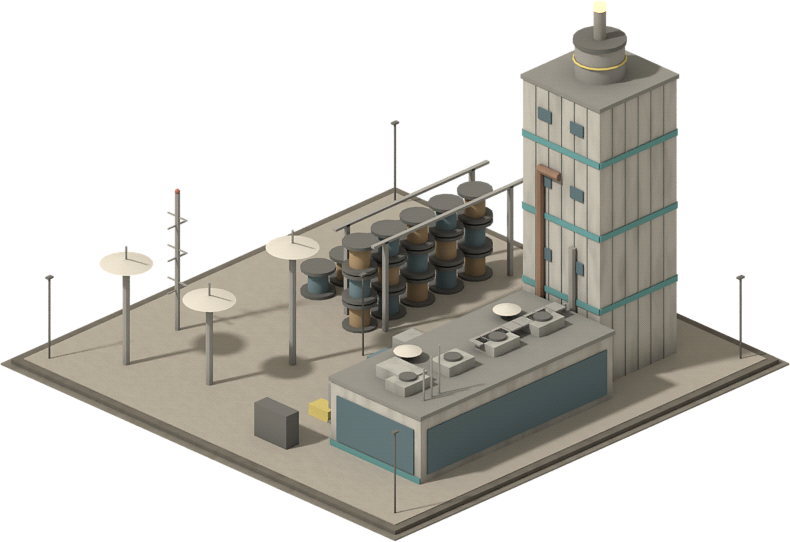
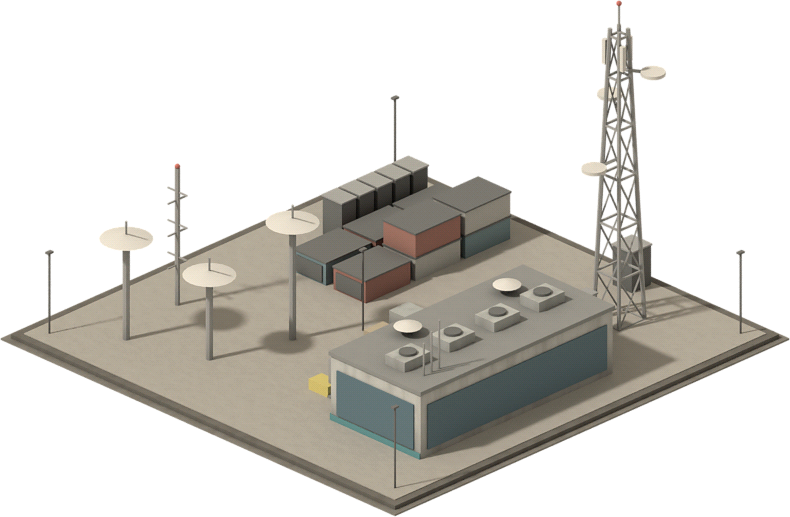
電線工場・光ファイバー工場を専用の新工場に、通信機器工場を通信塔に作り直し、技術ツリー図を更新
Claude-Session: https://claude.ai/code/session_018rzwRr8JkDqqPcQLfX2TTK

diff --git a/data/recipes.js b/data/recipes.js
@@ -51,19 +51,19 @@ GAME_DATA.recipes = {
   colony: { name: '宇宙コロニー', inputs: { paper: 1500, buildmat: 4000, car: 300, detergent: 250, clothing: 1500, pharma: 150, pc: 1000, ev: 200, weapon: 50, rocket: 2, alloy: 1000 }, outputs: { colony: 1 }, opexPerUnit: 5727935.3, energyShare: 0.05 },
   offshore: { name: '洋上プラットフォーム', inputs: { steel: 5000, alloy: 1500, cement: 20000, glass: 1000, pc: 500 }, outputs: { offshore: 1 }, opexPerUnit: 1833756.0, energyShare: 0.06 },
   aiDefense: { name: 'AI防衛システム', inputs: { semiconductor: 1500, weapon: 100, rocket: 1, pc: 500, powerEquip: 250, comsat: 6 }, outputs: { aiDefense: 1 }, opexPerUnit: 9126201.9, energyShare: 0.07 },
-  cable: { name: '電線・ケーブル', inputs: { copper: 0.8, aluminum: 0.3 }, outputs: { cable: 1 }, opexPerUnit: 208.8, energyShare: 0.3, speed: 0.44 },
+  cable: { name: '電線・ケーブル', inputs: { copper: 0.8, aluminum: 0.3 }, outputs: { cable: 1 }, opexPerUnit: 150.8, energyShare: 0.3 },
   motor: { name: 'モーター・変圧器', inputs: { cable: 1.0, steel: 2.0, copper: 0.3 }, outputs: { motor: 1 }, opexPerUnit: 594.7, energyShare: 0.08 },
   powerEquip: { name: '発電・送電設備', inputs: { motor: 1.0, cable: 0.5, steel: 4.0, alloy: 0.4, glass: 0.5, silicon: 0.3 }, outputs: { powerEquip: 1 }, opexPerUnit: 2642.0, energyShare: 0.08 },
-  opticFiber: { name: '光学ガラス・光ファイバー', inputs: { glass: 1.0, silica: 0.25 }, outputs: { opticFiber: 1 }, opexPerUnit: 226.0, energyShare: 0.3, speed: 0.36 },
-  commGear: { name: '通信機器', inputs: { opticFiber: 1.0, copper: 0.5, plastic: 0.4, semiconductor: 0.1 }, outputs: { commGear: 1 }, opexPerUnit: 819.5, energyShare: 0.08 },
+  opticFiber: { name: '光ファイバー', inputs: { glass: 1.0, silica: 0.25 }, outputs: { opticFiber: 1 }, opexPerUnit: 52.1, energyShare: 0.3 },
+  commGear: { name: '通信機器', inputs: { opticFiber: 1.0, copper: 0.5, plastic: 0.4, semiconductor: 0.1 }, outputs: { commGear: 1 }, opexPerUnit: 1051.7, energyShare: 0.08 },
   comsat: { name: '通信衛星・通信網', inputs: { commGear: 40, semiconductor: 14, alloy: 10 }, outputs: { comsat: 1 }, opexPerUnit: 33876.6, energyShare: 0.06 }
 };
 GAME_DATA.plants = {
   chemPlant: { recipes: ['plastic', 'rubber', 'surfactant', 'fiber'], legacyRecipes: ['pharmaMat', 'explosive'], throughput: 10 },
   steelMill: { recipes: ['steel', 'alloy'], throughput: 25 },
   aluminumSmelter: { recipes: ['aluminum'], throughput: 7 },
-  copperSmelter: { recipes: ['copper', 'lithium', 'cable'], throughput: 3.6 },
-  kiln: { recipes: ['glass', 'cement', 'silicon', 'opticFiber'], throughput: 5 },
+  copperSmelter: { recipes: ['copper', 'lithium'], throughput: 3.6 },
+  kiln: { recipes: ['glass', 'cement', 'silicon'], throughput: 5 },
   sawmill: { recipes: ['lumber'], throughput: 10 },
   paperMill: { recipes: ['paper'], throughput: 13 },
   detergentFactory: { recipes: ['detergent'], throughput: 2.5 },
@@ -82,6 +82,8 @@ GAME_DATA.plants = {
   explosivesFactory: { recipes: ['explosive'], throughput: 10 },
   colonyFactory: { recipes: ['colony'], throughput: 0.0028 },
   offshoreFactory: { recipes: ['offshore'], throughput: 0.0056 },
+  cableFactory: { recipes: ['cable'], throughput: 1.6 },
+  fiberFactory: { recipes: ['opticFiber'], throughput: 4.5 },
   motorFactory: { recipes: ['motor'], throughput: 1.4 },
   powerEquipFactory: { recipes: ['powerEquip'], throughput: 0.64 },
   commGearFactory: { recipes: ['commGear'], throughput: 1.55 },

diff --git a/data/buildings.js b/data/buildings.js
@@ -113,9 +113,11 @@ GAME_DATA.buildings = {
   colonyFactory:     { name: '宇宙コロニー工場', icon: '🛰', category: 'factory', tier: 6, cost: 10000000, months: 48, fixedPerMonth: 40000, desc: '船と航空機以外のすべての最終製品と合金から、葉巻型の宇宙コロニーを組み立てる（増設モジュールなし。まとめて高く売れるが、年に1基ほど。相場は特に荒い）' },
   offshoreFactory:   { name: '洋上プラットフォーム工場', icon: '🛢', category: 'factory', tier: 6, cost: 5000000, months: 36, fixedPerMonth: 20000, desc: 'セメント・ガラス・PC・鋼材・合金から、洋上の資源基地・発電所を組み立てる（増設モジュールなし。まとめて高く売れるが、年に2基ほど。安定した相場）' },
   aiDefenseFactory:  { name: 'AI防衛システム工場', icon: '🛡', category: 'factory', tier: 6, cost: 9000000, months: 48, fixedPerMonth: 36000, desc: '半導体・兵器・ロケット・火薬・PC・合金から、AI防衛システムを組み立てる（増設モジュールなし。まとめて高く売れるが、年に1式ほど。戦争のイベントで相場が荒れる）' },
+  cableFactory:      { name: '電線工場', icon: '🔗', category: 'factory', tier: 6, cost: 900000, months: 18, fixedPerMonth: 3600, desc: '銅とアルミを引いて被覆し、電線・ケーブルにする（電機ラインのTier 3）' },
+  fiberFactory:      { name: '光ファイバー工場', icon: '💡', category: 'factory', tier: 6, cost: 1200000, months: 18, fixedPerMonth: 4800, desc: 'ガラスと珪砂から母材を作り、塔で細く引いて光ファイバーにする（光・通信ラインのTier 3）' },
   motorFactory:      { name: 'モーター・変圧器工場', icon: '🔌', category: 'factory', tier: 6, cost: 2000000, months: 24, fixedPerMonth: 8000, desc: '電線・鋼材・銅から、モーターと変圧器を作る（電機ラインのTier 4）' },
   powerEquipFactory: { name: '発電・送電設備工場', icon: '🌬', category: 'factory', tier: 6, cost: 3500000, months: 30, fixedPerMonth: 14000, desc: 'モーター・電線・鋼材・合金・ガラス・シリコンから、風力・太陽光・送電網の設備を作る（電機ラインのTier 5。AI防衛システムの材料）' },
-  commGearFactory:   { name: '通信機器工場', icon: '📡', category: 'factory', tier: 6, cost: 2500000, months: 24, fixedPerMonth: 10000, desc: '光ファイバー・銅・プラスチック・半導体から、通信機器を作る（光・通信ラインのTier 4）' },
+  commGearFactory:   { name: '通信機器工場', icon: '📡', category: 'factory', tier: 6, cost: 2500000, months: 24, fixedPerMonth: 10000, desc: '光ファイバー・銅・プラスチック・半導体から、ルーターや送受信機などの通信機器を組み立てる（光・通信ラインのTier 4）' },
   satelliteFactory:  { name: '通信衛星工場', icon: '🛰', category: 'factory', tier: 6, cost: 4000000, months: 36, fixedPerMonth: 16000, desc: '通信機器・半導体・合金から、通信衛星と通信網を組み立てる（光・通信ラインのTier 5。AI防衛システムの材料）' },
   evFactory:         { name: '電池・EV工場',     icon: '🔋', category: 'factory', tier: 6, cost: 3500000, months: 30, fixedPerMonth: 14000, desc: '鋼材・アルミ・合成ゴム・リチウム・半導体・銅から電池・EV' }
 };

diff --git a/data/tree.js b/data/tree.js
@@ -72,16 +72,16 @@ GAME_DATA.tree = {
     colony:    { x: 790, color: '#c28a1e', name: '宇宙コロニー', icon: '🛰', tier: 6, tickets: 3, needs: ['steel', 'pharma', 'pc', 'ev', 'weapon', 'rocket', 'car', 'buildmat', 'detergent', 'clothing', 'paper'],
                  buildings: ['colonyFactory'], recipes: ['colony'], resources: ['colony'] },
     // 最終プロジェクト（コロニーの仲間）：船・航空機・半導体を、1つずつ主役にする。前提がそろえば現れる（選べるのは、素材の余りがそろったとき）
-    // 電機ライン（銅）：Tier 3 電線・ケーブル → Tier 4 モーター・変圧器 → Tier 5 発電・送電設備。Tier 3 は非鉄製錬所の追加レシピ（建物なし。選択権は supply で）
-    wire:      { x: 520, color: '#b5651d', name: '電線・ケーブル', icon: '🔗', tier: 3, tickets: 1, needs: ['copper'], supply: { building: 'copperSmelter', recipe: 'cable' },
-                 buildings: [], recipes: ['cable'], resources: ['cable'] },
+    // 電機ライン（銅）：Tier 3 電線・ケーブル（電線工場）→ Tier 4 モーター・変圧器 → Tier 5 発電・送電設備
+    wire:      { x: 520, color: '#b5651d', name: '電線・ケーブル', icon: '🔗', tier: 3, tickets: 1, needs: ['copper'],
+                 buildings: ['cableFactory'], recipes: ['cable'], resources: ['cable'] },
     motor:     { x: 250, color: '#c77b30', name: 'モーター・変圧器', icon: '🔌', tier: 4, tickets: 2, needs: ['wire', 'steel'],
                  buildings: ['motorFactory'], recipes: ['motor'], resources: ['motor'] },
     power:     { x: 1870, color: '#2f9e44', name: '発電・送電設備', icon: '🌬', tier: 5, tickets: 2, needs: ['motor', 'kiln'],
                  buildings: ['powerEquipFactory'], recipes: ['powerEquip'], resources: ['powerEquip'] },
-    // 光・通信ライン（ガラス）：Tier 3 光学ガラス・光ファイバー → Tier 4 通信機器 → Tier 5 通信衛星・通信網。Tier 3 は窯業工場の追加レシピ
-    optic:     { x: 760, color: '#5aa9c9', name: '光ファイバー', icon: '💡', tier: 3, tickets: 1, needs: ['kiln'], supply: { building: 'kiln', recipe: 'opticFiber' },
-                 buildings: [], recipes: ['opticFiber'], resources: ['opticFiber'] },
+    // 光・通信ライン（ガラス）：Tier 3 光ファイバー（光ファイバー工場）→ Tier 4 通信機器 → Tier 5 通信衛星・通信網
+    optic:     { x: 760, color: '#5aa9c9', name: '光ファイバー', icon: '💡', tier: 3, tickets: 1, needs: ['kiln'],
+                 buildings: ['fiberFactory'], recipes: ['opticFiber'], resources: ['opticFiber'] },
     comm:      { x: 1500, color: '#3a8fb7', name: '通信機器', icon: '📡', tier: 4, tickets: 2, needs: ['optic', 'copper', 'semi'],
                  buildings: ['commGearFactory'], recipes: ['commGear'], resources: ['commGear'] },
     sat:       { x: 2140, color: '#7b61c4', name: '通信衛星・通信網', icon: '🛰', tier: 5, tickets: 2, needs: ['comm', 'semi'],

diff --git a/data/map.js b/data/map.js
@@ -21,7 +21,7 @@ window.GAME_DATA.map = {
   reclaimCostPerTile: 4000,   // 埋め立て：海の上に設備を置くとき、海のマスごとにかかる費用（物価指数で増える）。置いた足あとが陸地になる（s.map.fill）。海岸線から reclaimMax 行まで、港の前と造船所の開口部の前は海のまま
   reclaimCostPerRow: 240000, reclaimMax: 12,   // 旧方式（海岸線を全幅で1行広げる）。古いセーブと自動配置の用地の確保でだけ使う   // 埋め立て：海岸線を1行（全幅）広げる費用（物価指数で増える）と上限行数。港の前は海のまま
   // 増設モジュール：加工設備1基につき最大 max 個。1個で基準の日量が gain 倍ぶん増える。建設費・工期・維持費は元の設備の costMul・monthsMul・fixedMul 倍（新設より少しだけ得にして、土地を食わない・設備数の上限を超えられる分の利点とつり合わせる）
-  modules: { exclude: { shipyard: 1, colonyFactory: 1, offshoreFactory: 1, aiDefenseFactory: 1, motorFactory: 1, powerEquipFactory: 1, commGearFactory: 1, satelliteFactory: 1 }, max: 3, gain: 1.0, costMul: 0.9, monthsMul: 0.7, fixedMul: 0.9 },
+  modules: { exclude: { shipyard: 1, colonyFactory: 1, offshoreFactory: 1, aiDefenseFactory: 1, cableFactory: 1, fiberFactory: 1, motorFactory: 1, powerEquipFactory: 1, commGearFactory: 1, satelliteFactory: 1 }, max: 3, gain: 1.0, costMul: 0.9, monthsMul: 0.7, fixedMul: 0.9 },
   // 増設モジュールの足あとは、設置相手の設備ごとに違う（親の増築として絵を作ってある）。ここに無い親は footprint.module。造船所は増設なし
   moduleFootprint: {
     chemPlant: [3, 3], steelMill: [3, 4], aluminumSmelter: [2, 4], kiln: [2, 3], sawmill: [2, 2], paperMill: [2, 3],
@@ -37,7 +37,7 @@ window.GAME_DATA.map = {
     steelMill: [12, 12], aluminumSmelter: [6, 6], copperSmelter: [4, 4], kiln: [4, 4], sawmill: [4, 4], paperMill: [4, 4],
     detergentFactory: [4, 4], garmentFactory: [4, 4], buildmatFactory: [6, 6],
     carFactory: [7, 5], shipyard: [5, 8], aircraftFactory: [6, 5], semiconductorFactory: [6, 6], pcFactory: [7, 6], evFactory: [8, 8], pharmaFactory: [6, 5],
-    rocketFactory: [6, 6], munitionsFactory: [7, 8], fineChemPlant: [6, 5], explosivesFactory: [6, 6], colonyFactory: [12, 12], offshoreFactory: [10, 10], motorFactory: [7, 6], powerEquipFactory: [9, 8], commGearFactory: [6, 6], satelliteFactory: [8, 8], aiDefenseFactory: [9, 9],   // NT に無い型（手続き描画 js/sprites2.js）は小さめ
+    rocketFactory: [6, 6], munitionsFactory: [7, 8], fineChemPlant: [6, 5], explosivesFactory: [6, 6], colonyFactory: [12, 12], offshoreFactory: [10, 10], cableFactory: [6, 5], fiberFactory: [5, 5], motorFactory: [7, 6], powerEquipFactory: [9, 8], commGearFactory: [6, 6], satelliteFactory: [8, 8], aiDefenseFactory: [9, 9],   // NT に無い型（手続き描画 js/sprites2.js）は小さめ
     powerPlant: [8, 8], researchLab: [4, 4], warehouse_bulk: [4, 4], warehouse_goods: [4, 4]
   }
 };

diff --git a/data/sprites_bl.js b/data/sprites_bl.js
@@ -3332,36 +3332,36 @@ window.GAME_DATA.spritesBL = {
    {
     "file": "../assets/bl/commGearFactory_r0.png",
     "w": 395.0,
-    "h": 314.0,
+    "h": 301.5,
     "ax": 197.5,
-    "ay": 222.6,
+    "ay": 210.1,
     "fw": 6,
     "fd": 6
    },
    {
     "file": "../assets/bl/commGearFactory_r1.png",
     "w": 395.0,
-    "h": 271.0,
+    "h": 258.5,
     "ax": 197.5,
-    "ay": 179.6,
+    "ay": 167.1,
     "fw": 6,
     "fd": 6
    },
    {
     "file": "../assets/bl/commGearFactory_r2.png",
     "w": 395.0,
-    "h": 222.5,
+    "h": 215.0,
     "ax": 197.5,
-    "ay": 131.1,
+    "ay": 123.6,
     "fw": 6,
     "fd": 6
    },
    {
     "file": "../assets/bl/commGearFactory_r3.png",
     "w": 395.0,
-    "h": 265.0,
+    "h": 244.0,
     "ax": 197.5,
-    "ay": 173.6,
+    "ay": 152.6,
     "fw": 6,
     "fd": 6
    }
@@ -3406,6 +3406,90 @@ window.GAME_DATA.spritesBL = {
     "ay": 155.6,
     "fw": 8,
     "fd": 8
+   }
+  ]
+ },
+ "cableFactory": {
+  "fw": 6,
+  "fd": 5,
+  "r": [
+   {
+    "file": "../assets/bl/cableFactory_r0.png",
+    "w": 363.0,
+    "h": 192.5,
+    "ax": 181.5,
+    "ay": 108.6,
+    "fw": 6,
+    "fd": 5
+   },
+   {
+    "file": "../assets/bl/cableFactory_r1.png",
+    "w": 363.0,
+    "h": 192.5,
+    "ax": 181.5,
+    "ay": 108.6,
+    "fw": 5,
+    "fd": 6
+   },
+   {
+    "file": "../assets/bl/cableFactory_r2.png",
+    "w": 363.0,
+    "h": 192.5,
+    "ax": 181.5,
+    "ay": 108.6,
+    "fw": 6,
+    "fd": 5
+   },
+   {
+    "file": "../assets/bl/cableFactory_r3.png",
+    "w": 363.0,
+    "h": 192.5,
+    "ax": 181.5,
+    "ay": 108.6,
+    "fw": 5,
+    "fd": 6
+   }
+  ]
+ },
+ "fiberFactory": {
+  "fw": 5,
+  "fd": 5,
+  "r": [
+   {
+    "file": "../assets/bl/fiberFactory_r0.png",
+    "w": 331.0,
+    "h": 198.0,
+    "ax": 165.5,
+    "ay": 121.1,
+    "fw": 5,
+    "fd": 5
+   },
+   {
+    "file": "../assets/bl/fiberFactory_r1.png",
+    "w": 331.0,
+    "h": 178.5,
+    "ax": 165.5,
+    "ay": 101.6,
+    "fw": 5,
+    "fd": 5
+   },
+   {
+    "file": "../assets/bl/fiberFactory_r2.png",
+    "w": 331.0,
+    "h": 203.5,
+    "ax": 165.5,
+    "ay": 126.6,
+    "fw": 5,
+    "fd": 5
+   },
+   {
+    "file": "../assets/bl/fiberFactory_r3.png",
+    "w": 331.0,
+    "h": 229.5,
+    "ax": 165.5,
+    "ay": 152.6,
+    "fw": 5,
+    "fd": 5
    }
   ]
  }

diff --git a/data/resources.js b/data/resources.js
@@ -71,7 +71,7 @@ GAME_DATA.resources = {
   aiDefense:     { name: 'AI防衛システム', unit: '式', kind: 'product', tier: 6, canBuy: false, canSell: true, shipVol: 0.1, storage: 'goods', storeVol: 200, basePrice: 30000000, volatility: 0.35, marketDepth: 20, color: '#5a6a8a' },
   // ---- 電機ライン（銅）と光・通信ライン（ガラス）：Tier 3→4→5 の独立した2本。Tier 5 の発電・送電設備と通信衛星・通信網は、AI防衛システムの材料になる
   cable:         { name: '電線・ケーブル', unit: 't', kind: 'material', tier: 4, canBuy: true, canSell: true, shipVol: 1, storage: 'bulk', basePrice: 1100, volatility: 0.04, marketDepth: 3000, color: '#b5651d' },
-  opticFiber:    { name: '光学ガラス・光ファイバー', unit: 't', kind: 'material', tier: 4, canBuy: true, canSell: true, shipVol: 1, storage: 'bulk', basePrice: 700, volatility: 0.05, marketDepth: 2500, color: '#7fc4de' },
+  opticFiber:    { name: '光ファイバー', unit: 't', kind: 'material', tier: 4, canBuy: true, canSell: true, shipVol: 1, storage: 'bulk', basePrice: 520, volatility: 0.05, marketDepth: 2500, color: '#7fc4de' },
   motor:         { name: 'モーター・変圧器', unit: 't', kind: 'product', tier: 6, canBuy: true, canSell: true, shipVol: 1, storage: 'goods', storeVol: 1, basePrice: 3500, volatility: 0.07, marketDepth: 1200, color: '#c77b30' },
   commGear:      { name: '通信機器', unit: 't', kind: 'product', tier: 6, canBuy: true, canSell: true, shipVol: 1, storage: 'goods', storeVol: 1, basePrice: 4000, volatility: 0.08, marketDepth: 900, color: '#3a8fb7' },
   powerEquip:    { name: '発電・送電設備', unit: '式', kind: 'product', tier: 6, canBuy: true, canSell: true, shipVol: 1, storage: 'goods', storeVol: 5, basePrice: 14000, volatility: 0.12, marketDepth: 150, color: '#2f9e44' },

diff --git a/data/segments.js b/data/segments.js
@@ -31,8 +31,8 @@ GAME_DATA.segmentOrder = ['oil', 'metal', 'ceramics', 'forestry', 'consumer', 't
   set(R, 'mega', 'offshore aiDefense');
   set(R, 'electric', 'motor commGear powerEquip comsat');
   set(B, 'oil', 'oilWell crudeTank refinery refineryLarge distillation tank_gasoline tank_diesel tank_naphtha tank_heavy chemPlant fineChemPlant explosivesFactory');
-  set(B, 'metal', 'steelMill aluminumSmelter copperSmelter');
-  set(B, 'ceramics', 'kiln');
+  set(B, 'metal', 'steelMill aluminumSmelter copperSmelter cableFactory');
+  set(B, 'ceramics', 'kiln fiberFactory');
   set(B, 'forestry', 'sawmill paperMill');
   set(B, 'consumer', 'detergentFactory garmentFactory pharmaFactory buildmatFactory');
   set(B, 'transport', 'carFactory shipyard aircraftFactory evFactory');

diff --git a/js/sprites.js b/js/sprites.js
@@ -37,6 +37,8 @@
     explosivesFactory: { color: '#b8a98a', h: 8, bunker: true, stacks: 1 },
     colonyFactory:    { color: '#dfe4e8', h: 40, glass: true, clean: true },
     offshoreFactory:  { color: '#9fb4c4', h: 22, glass: true },
+    cableFactory:     { color: '#9aa0a6', h: 8 },
+    fiberFactory:     { color: '#cdd8de', h: 22, glass: true, clean: true },
     motorFactory:     { color: '#b99a72', h: 12, glass: true },
     powerEquipFactory: { color: '#a9b8ad', h: 16 },
     commGearFactory:  { color: '#b7c9d6', h: 26, glass: true },
